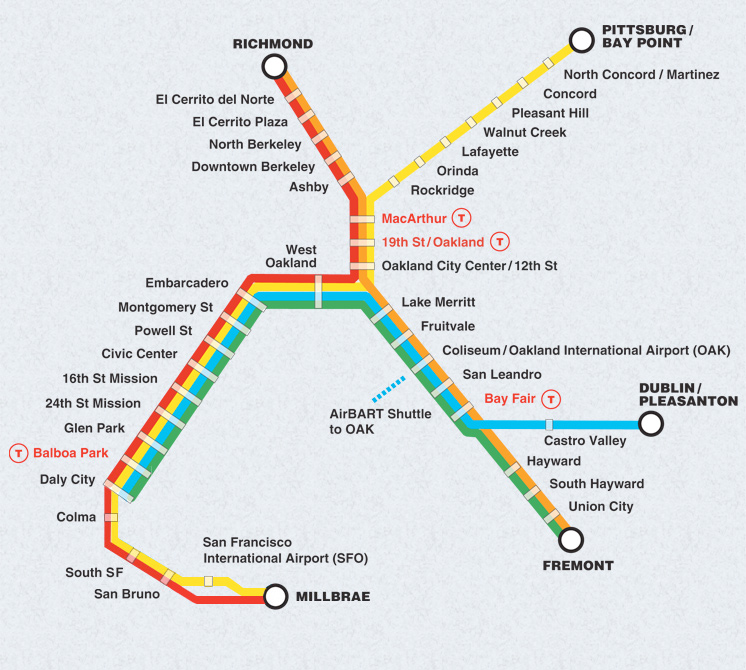
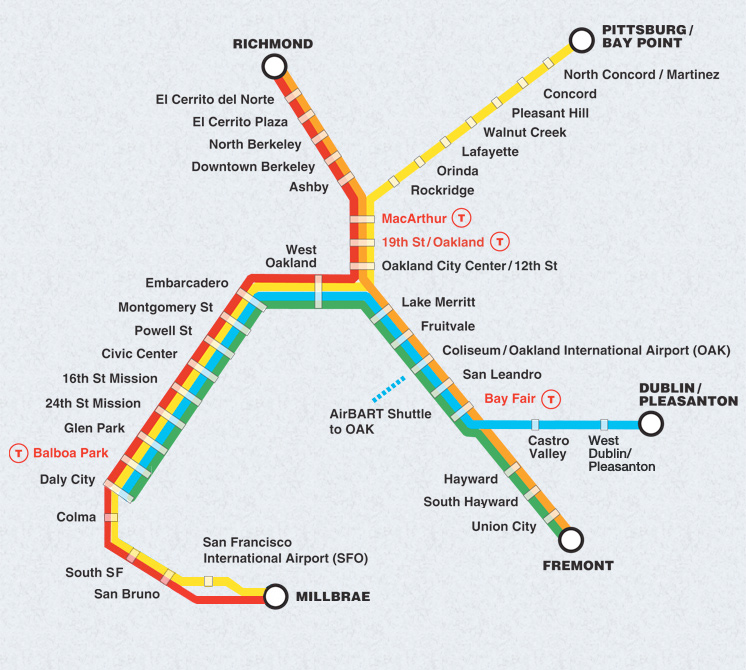
added West Dublin station to maps

Changed region(s): [[0.7091, 0.6269, 0.8941, 0.7761], [0.555, 0.6866, 0.7091, 0.806]]

diff --git a/trunk/BART.wdgt/Maps/Alphabetical/info.js b/trunk/BART.wdgt/Maps/Alphabetical/info.js
@@ -10,27 +10,27 @@ map.height = 670  // px
 
 map.isZoomable = false
  
-map.addStation("Richmond",501,369)
+map.addStation("Richmond",501,350)
 map.addStation("Del Norte",143,464)
 map.addStation("Plaza",143,492)
-map.addStation("North Berkeley",501,192)
+map.addStation("North Berkeley",501,180)
 map.addStation("Berkeley",143,408)
 map.addStation("Ashby",143,153)
-map.addStation("Rockridge",501,398)
-map.addStation("Orinda",501,250)
-map.addStation("Lafayette",501,44)
-map.addStation("Walnut Creek",501,606)
-map.addStation("Pleasant Hill",501,309)
+map.addStation("Rockridge",501,378)
+map.addStation("Orinda",501,237)
+map.addStation("Lafayette",501,39)
+map.addStation("Walnut Creek",501,576)
+map.addStation("Pleasant Hill",501,294)
 map.addStation("Concord",143,353)
-map.addStation("North Concord",501,221)
-map.addStation("Pittsburg",501,281)
-map.addStation("MacArthur",501,103)
+map.addStation("North Concord",501,208)
+map.addStation("Pittsburg",501,265)
+map.addStation("MacArthur",501,95)
 map.addStation("19th St",143,97)
 map.addStation("12th St",143,41)
-map.addStation("West Oakland",501,635)
+map.addStation("West Oakland",501,633)
 map.addStation("Embarcadero",143,522)
-map.addStation("Montgomery",501,162)
-map.addStation("Powell",501,340)
+map.addStation("Montgomery",501,152)
+map.addStation("Powell",501,322)
 map.addStation("Civic Center",143,267)
 map.addStation("16th St",143,69)
 map.addStation("24th St",143,124)
@@ -38,19 +38,19 @@ map.addStation("Glen Park",143,606)
 map.addStation("Balboa Park",143,181)
 map.addStation("Daly City",143,380)
 map.addStation("Colma",143,324)
-map.addStation("South SF",501,547)
-map.addStation("San Bruno",501,428)
-map.addStation("SFO",501,457)
-map.addStation("Millbrae",501,132)
-map.addStation("Lake Merritt",501,74)
+map.addStation("South SF",501,520)
+map.addStation("San Bruno",501,407)
+map.addStation("SFO",501,435)
+map.addStation("Millbrae",501,124)
+map.addStation("Lake Merritt",501,67)
 map.addStation("Fruitvale",143,578)
 map.addStation("Coliseum",143,296)
-map.addStation("San Leandro",501,487)
+map.addStation("San Leandro",501,464)
 map.addStation("Bay Fair",143,211)
 map.addStation("Castro Valley",143,239)
-map.addStation("West Dublin",0,0)
+map.addStation("West Dublin",501,605)
 map.addStation("Dublin",143,436)
 map.addStation("Hayward",143,634)
-map.addStation("South Hayward",501,516)
-map.addStation("Union City",501,576)
+map.addStation("South Hayward",501,492)
+map.addStation("Union City",501,548)
 map.addStation("Fremont",143,548)

diff --git a/trunk/BART.wdgt/Maps/Classic/info.js b/trunk/BART.wdgt/Maps/Classic/info.js
@@ -1,4 +1,4 @@
-//------------------------------------------------------------------------------
+117//------------------------------------------------------------------------------
 //  Classic/info.js is part of the BART dashboard widget.  (c) 2005 Bret Victor
 //  This software is licensed under the terms of the open source MIT license.
 //------------------------------------------------------------------------------
@@ -52,7 +52,7 @@ map.addStation("Coliseum",382,369)
 map.addStation("San Leandro",417,416)
 map.addStation("Bay Fair",446,446)
 map.addStation("Castro Valley",490,456)
-map.addStation("West Dublin",610,446)
+map.addStation("West Dublin",614,448)
 map.addStation("Dublin",665,445)
 map.addStation("Hayward",482,484)
 map.addStation("South Hayward",509,526)

diff --git a/trunk/BART.wdgt/Maps/Clean/info.js b/trunk/BART.wdgt/Maps/Clean/info.js
@@ -51,8 +51,8 @@ map.addStation("Fruitvale",402,341)
 map.addStation("Coliseum",423,366)
 map.addStation("San Leandro",442,389)
 map.addStation("Bay Fair",462,413)
-map.addStation("Castro Valley",550,426)
-map.addStation("West Dublin",600,424)
+map.addStation("Castro Valley",535,426)
+map.addStation("West Dublin",604,424)
 map.addStation("Dublin",651,423)
 map.addStation("Hayward",513,470)
 map.addStation("South Hayward",533,494)

diff --git a/trunk/BART.wdgt/Maps/Euro/info.js b/trunk/BART.wdgt/Maps/Euro/info.js
@@ -50,8 +50,8 @@ map.addStation("Fruitvale",402,352)
 map.addStation("Coliseum",424,372)
 map.addStation("San Leandro",458,406)
 map.addStation("Bay Fair",482,430)
-map.addStation("Castro Valley",535,446)
-map.addStation("West Dublin",613,446)
+map.addStation("Castro Valley",540,446)
+map.addStation("West Dublin",617,446)
 map.addStation("Dublin",690,446)
 map.addStation("Hayward",511,481)
 map.addStation("South Hayward",531,539)
